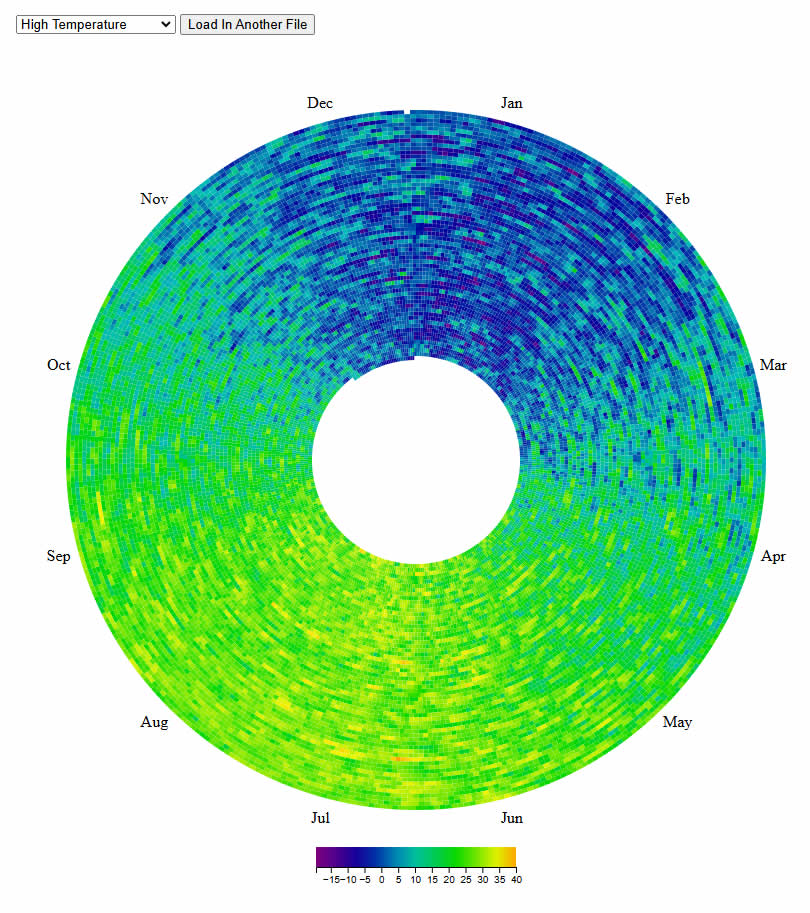
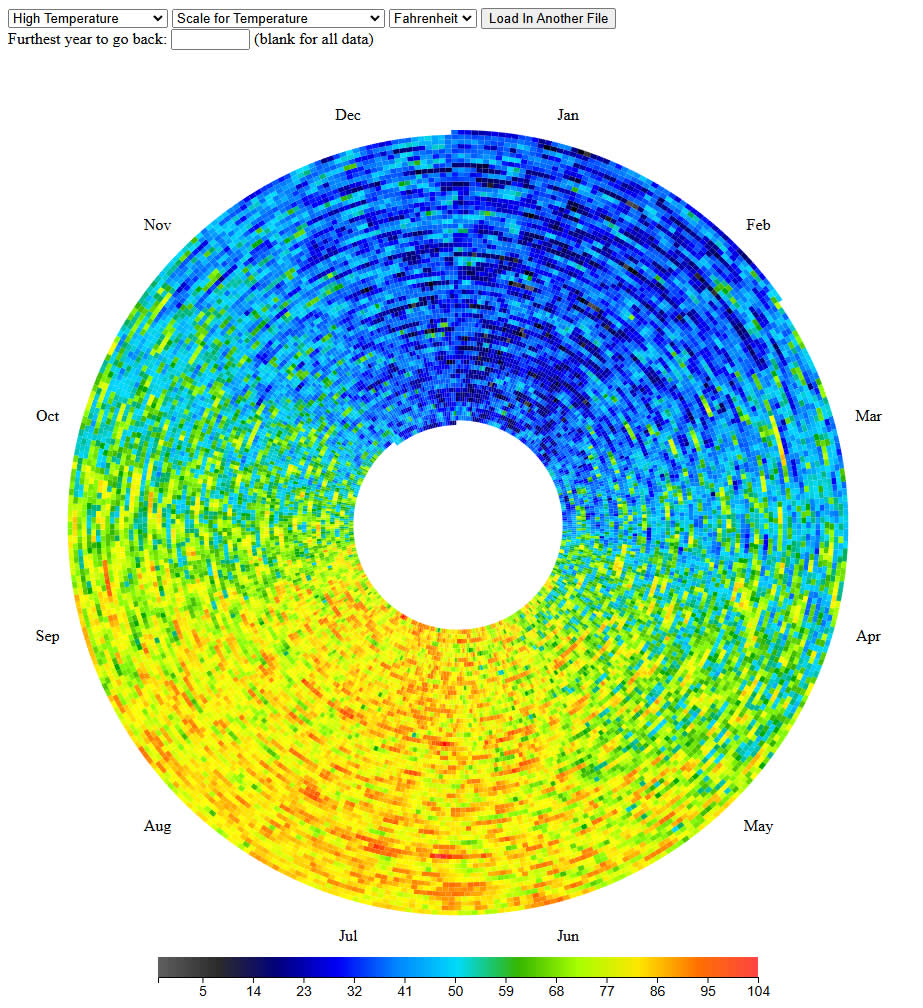
Add files via upload

diff --git a/readme.rst b/readme.rst
@@ -31,8 +31,9 @@ If you would like a working example you can visit the
   :width: 810
   :alt: Chart example
 
-Grand Rapids Michigan US data from 1963-2024  
-  
+Grand Rapids Michigan US data from 1963-2025  
+Daily High Temperature (Fahrenheit) 
+Inner rings are older years  
   
 
 ###############
